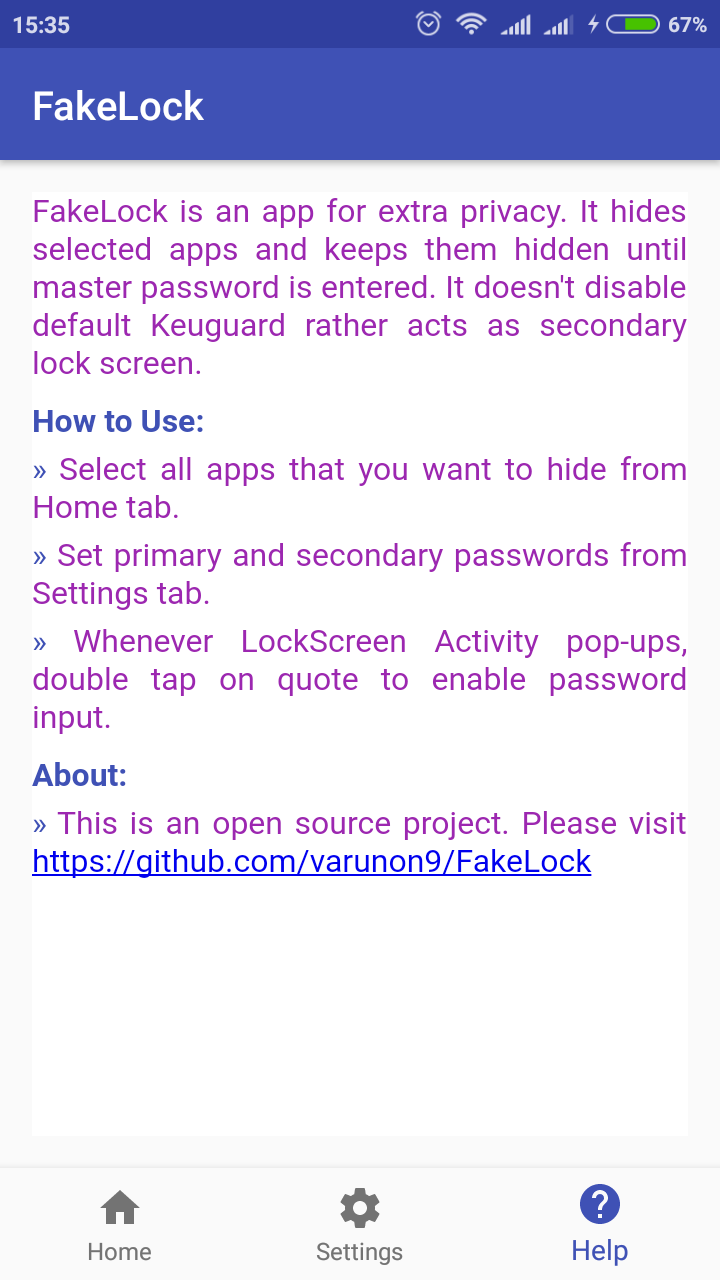
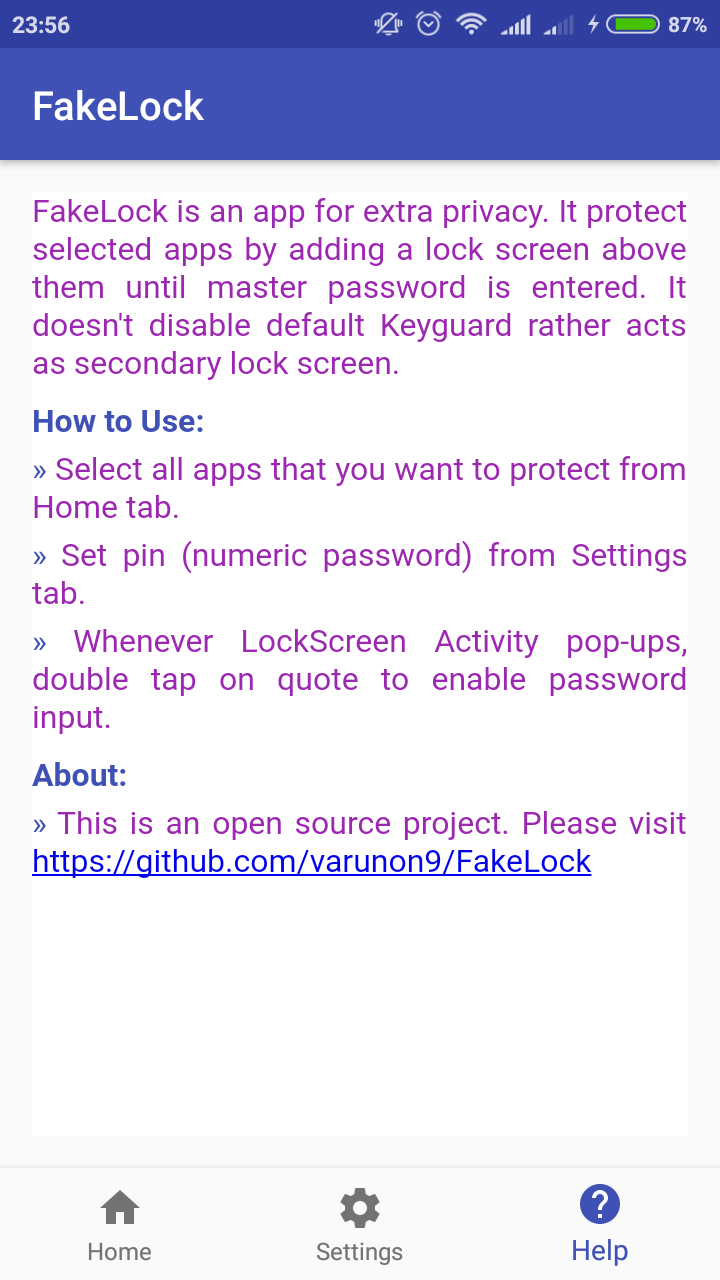
changed feature from hiding app -> protecting app

diff --git a/app/src/main/assets/help.html b/app/src/main/assets/help.html
@@ -44,8 +44,8 @@
 </head>
 <body>
 <div class="content accent-color">
-    FakeLock is an app for extra privacy. It hides selected apps and keeps them hidden until master password is entered.
-    It doesn't disable default Keuguard rather acts as secondary lock screen.
+    FakeLock is an app for extra privacy. It protect selected apps by adding a lock screen above them until master password is entered.
+    It doesn't disable default Keyguard rather acts as secondary lock screen.
 </div>
 <div class="content">
     <div class="primary-color heading">
@@ -53,10 +53,10 @@
     </div>
     <div class="accent-color rules">
         <p>
-            Select all apps that you want to hide from Home tab.
+            Select all apps that you want to protect from Home tab.
         </p>
         <p>
-            Set primary and secondary passwords from Settings tab.
+            Set pin (numeric password) from Settings tab.
         </p>
         <p>
             Whenever LockScreen Activity pop-ups, double tap on quote to enable password input.

diff --git a/app/src/main/java/me/varunon9/fakelock/LockScreenActivity.java b/app/src/main/java/me/varunon9/fakelock/LockScreenActivity.java
@@ -3,11 +3,13 @@ package me.varunon9.fakelock;
 import android.content.ComponentName;
 import android.content.Context;
 import android.content.Intent;
+import android.content.SharedPreferences;
 import android.content.pm.PackageManager;
 import android.os.Build;
 import android.os.Vibrator;
 import android.support.v7.app.AppCompatActivity;
 import android.os.Bundle;
+import android.support.v7.preference.PreferenceManager;
 import android.view.GestureDetector;
 import android.view.MotionEvent;
 import android.view.View;
@@ -35,6 +37,9 @@ public class LockScreenActivity extends AppCompatActivity implements View.OnClic
     private Map<String, ?> hiddenAppsMap;
     private PackageManager packageManager;
 
+    // settings preferences
+    private SharedPreferences settingsPreferences;
+
     @Override
     protected void onCreate(Bundle savedInstanceState) {
         super.onCreate(savedInstanceState);
@@ -44,6 +49,8 @@ public class LockScreenActivity extends AppCompatActivity implements View.OnClic
         startService(new Intent(this,LockScreenService.class));
 
         setContentView(R.layout.activity_lock_screen);
+
+        settingsPreferences = PreferenceManager.getDefaultSharedPreferences(getApplicationContext());
 
         Button button0 = (Button) findViewById(R.id.button0);
         button0.setOnClickListener(this);
@@ -81,6 +88,22 @@ public class LockScreenActivity extends AppCompatActivity implements View.OnClic
         subHeadingTextView = (TextView) findViewById(R.id.subHeadingTextView);
         quoteTextView = (TextView) findViewById(R.id.quoteTextView);
 
+        // setting headings and quote
+        String heading = settingsPreferences.getString("heading_preference", null);
+        if (heading != null && !heading.equals("")) {
+            headingTextView.setText(heading);
+        }
+
+        String subheading = settingsPreferences.getString("subheading_preference", null);
+        if (subheading != null && !subheading.equals("")) {
+            subHeadingTextView.setText(subheading);
+        }
+
+        String quote = settingsPreferences.getString("quote_preference", null);
+        if (quote != null && !quote.equals("")) {
+            quoteTextView.setText(quote);
+        }
+
         quoteTextView.setOnTouchListener(new View.OnTouchListener() {
 
             private GestureDetector gestureDetector = new GestureDetector(new GestureDetector.SimpleOnGestureListener() {
@@ -109,14 +132,14 @@ public class LockScreenActivity extends AppCompatActivity implements View.OnClic
         // hiding apps
         hiddenAppsMap =
                 new HideAppsPreferenceUtility(getApplicationContext()).getAllHiddenAppsMap();
-        for (Map.Entry<String, ?> app : hiddenAppsMap.entrySet()) {
+        /*for (Map.Entry<String, ?> app : hiddenAppsMap.entrySet()) {
             String packageName = app.getValue().toString();
             System.out.println(packageName);
             ComponentName componentName =
                     new ComponentName(packageName, packageName + ".MainActivity.class");
             packageManager.setComponentEnabledSetting(componentName,
                     PackageManager.COMPONENT_ENABLED_STATE_DISABLED, PackageManager.DONT_KILL_APP);
-        }
+        }*/
     }
 
     /**
@@ -270,6 +293,13 @@ public class LockScreenActivity extends AppCompatActivity implements View.OnClic
      * @param password
      */
     private void checkAndUnlockScreen(String password) {
-        unlockScreen(true);
+        boolean isPasswordRight = false;
+        String pin = settingsPreferences.getString("password_preference", "");
+
+        // also true when no password is set
+        if (pin.equals(password) || pin.equals("")) {
+            isPasswordRight = true;
+        }
+        unlockScreen(isPasswordRight);
     }
 }

diff --git a/app/src/main/java/me/varunon9/fakelock/settings/SettingsFragment.java b/app/src/main/java/me/varunon9/fakelock/settings/SettingsFragment.java
@@ -2,29 +2,23 @@ package me.varunon9.fakelock.settings;
 
 
 import android.os.Bundle;
-import android.support.v4.app.Fragment;
-import android.view.LayoutInflater;
-import android.view.View;
-import android.view.ViewGroup;
+import android.support.v7.preference.PreferenceFragmentCompat;
+import android.support.annotation.Nullable;
 
 import me.varunon9.fakelock.R;
 
-/**
- * A simple {@link Fragment} subclass.
- */
-public class SettingsFragment extends Fragment {
+public class SettingsFragment extends PreferenceFragmentCompat {
 
 
     public SettingsFragment() {
         // Required empty public constructor
     }
 
-
     @Override
-    public View onCreateView(LayoutInflater inflater, ViewGroup container,
-                             Bundle savedInstanceState) {
-        // Inflate the layout for this fragment
-        return inflater.inflate(R.layout.fragment_settings, container, false);
+    public void onCreatePreferences(Bundle savedInstanceState, String rootKey) {
+
+        // Load the Preferences from the XML file
+        addPreferencesFromResource(R.xml.settings_preferences);
     }
 
 }

diff --git a/README.md b/README.md
@@ -4,9 +4,9 @@ Custom Android LockScreen app to provide extra layer of privacy. It doesn't disa
 
 ### Features
 
-* It will hide selected apps and act as secondary LockScreen.
-* Apps will be visible only after entering correct password.
-* User can still unlock phone by entering random password but hidden apps will not be visible.
+* It will protect selected apps by adding a lock screen above them.
+* It acts as secondary LockScreen.
+* User can still unlock phone by entering random password but protected apps will not be accessible.
 * Option to customize lock screen (wallpaper, quote, todo).
 
 
@@ -15,7 +15,7 @@ Custom Android LockScreen app to provide extra layer of privacy. It doesn't disa
 |  |  |
 | --- | --- |
 |![LockScreen with Hidden Password Input](./screenshots/lockscreen_no_password.png) | ![LockScreen](./screenshots/lockscreen.png)|
-|![Hide Apps](./screenshots/hide_apps.png) | ![Help](./screenshots/help.png)|
+|![Protect Apps](./screenshots/protect_apps.png) | ![Help](./screenshots/help.png)|
 
 ### How to contribute?
 * Fork this repository.
